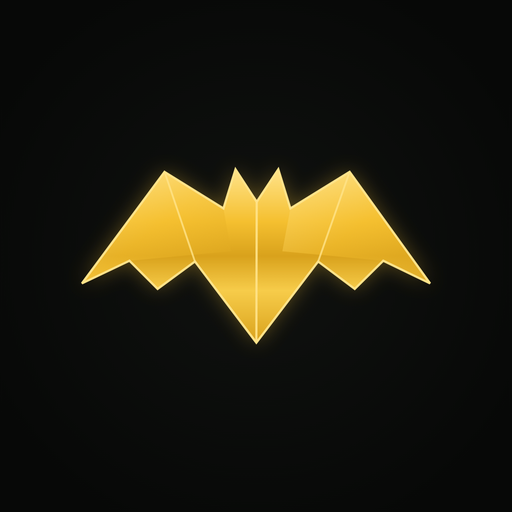
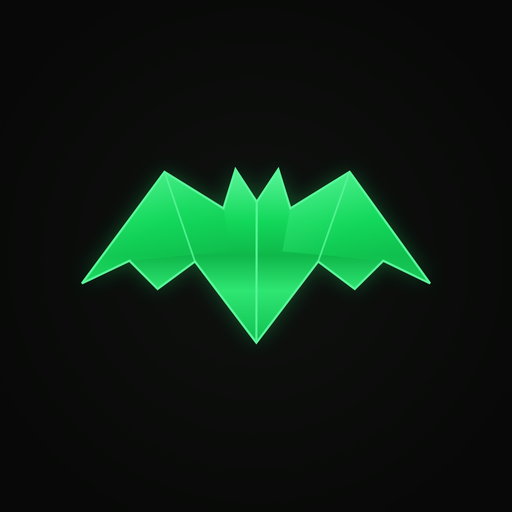
CX team profile photo: green chrome bat (was gold)

Changed region(s): [[0.1562, 0.3125, 0.8438, 0.6875]]

diff --git a/src/components/signalFeed/SignalSpotlightCard.tsx b/src/components/signalFeed/SignalSpotlightCard.tsx
@@ -76,7 +76,7 @@ export function SignalSpotlightCard({ data, all, inRail = false, compact = false
           {!embedded && (
           <div className="flex items-center gap-2.5">
             <Img
-              src={data.publisherAvatar ?? '/brand/avatar-cx-chrome.png'}
+              src={data.publisherAvatar ?? '/brand/avatar-cx-chrome.png?v=3'}
               alt=""
               className={`rounded-full object-cover ring-1 ring-white/35 ${compact ? 'h-7 w-7' : 'h-9 w-9'}`}
               fallback={<span className="grid h-9 w-9 place-items-center rounded-full bg-white/15"><Icon name="sparkles" size={14} /></span>}

diff --git a/src/lib/data/signalIdentity.ts b/src/lib/data/signalIdentity.ts
@@ -66,7 +66,7 @@ export function resolveSignalIdentity(
     case 'assistant':
       return { type: 'assistant', name: 'X', subtitle: 'The CX assistant', avatarUrl: '/brand/avatar-x.png?v=4', username: null };
     case 'cx':
-      return { type: 'cx', name: 'CX', subtitle: 'Official CX Rent', avatarUrl: '/brand/avatar-cx-chrome.png', username: null };
+      return { type: 'cx', name: 'CX', subtitle: 'Official CX Rent', avatarUrl: '/brand/avatar-cx-chrome.png?v=3', username: null };
     case 'self': {
       const selfRole: 'owner' | 'admin' | 'host' | 'verified_client' | 'client' =
         authorIsOwner ? 'owner'

diff --git a/src/lib/data/messages.ts b/src/lib/data/messages.ts
@@ -30,7 +30,7 @@ export interface ConversationCar {
 export type ParticipantRole = 'owner' | 'admin' | 'host' | 'client' | 'cx';
 
 /** How members see the support account: as the company, never as the person behind it. */
-export const CX_PARTICIPANT = { name: 'CX', avatar: '/brand/avatar-cx-chrome.png', role: 'cx' } as const;
+export const CX_PARTICIPANT = { name: 'CX', avatar: '/brand/avatar-cx-chrome.png?v=3', role: 'cx' } as const;
 
 export interface ConversationParticipant {
   id: string;

diff --git a/src/components/signalFeed/SignalProfileDetail.tsx b/src/components/signalFeed/SignalProfileDetail.tsx
@@ -715,7 +715,7 @@ function OfficialVoiceHeader({
   const isCx = type === 'cx';
   const avatar = (
     <Img
-      src={isCx ? '/brand/avatar-cx-chrome.png' : '/brand/avatar-x.png?v=4'}
+      src={isCx ? '/brand/avatar-cx-chrome.png?v=3' : '/brand/avatar-x.png?v=4'}
       alt=""
       className="h-24 w-24 rounded-full object-cover shadow-[0_10px_30px_-10px_rgba(0,0,0,0.45)] ring-1 ring-line"
       fallback={
